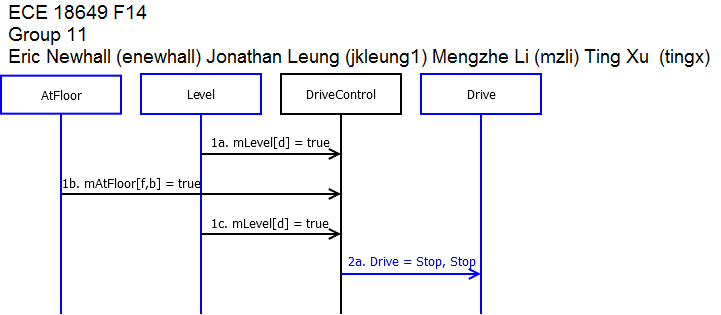
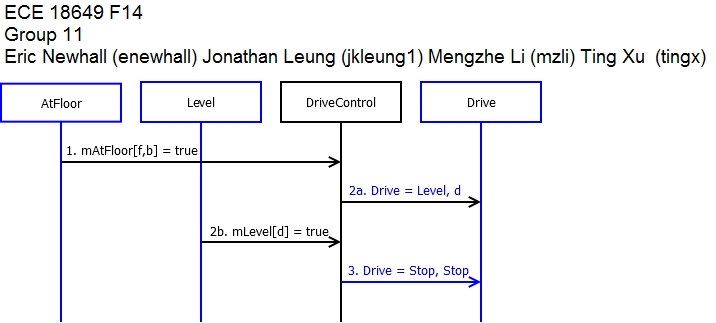
Fixed incorrect leveling process in scenario 6a.

Changed region(s): [[0.0, 0.0, 1.0, 1.0]]

diff --git a/portfolio/logs/issuelog.html b/portfolio/logs/issuelog.html
@@ -7,8 +7,12 @@
 <body>
 <h1 style="text-align: center;">18649 - Issue Log<br>
 </h1>
-<hr style="width: 100%; height: 2px;">18649 &lt;semester&gt;<br>
-Group x - Student names and andrewIds<br>
+<hr style="width: 100%; height: 2px;">18649 F14<br>
+Group 11 <br>
+Eric Newhall (enewhall)<br>
+Jonathan Leung (jkleung1) <br>
+Mengzhe Li (mzli) <br>
+Ting Xu  (tingx) <br>
 <hr style="width: 100%; height: 2px;">This table has an entry for each
 design issue during the semester.&nbsp; Add new entries to the bottom
 of the table (you may need to add new rows).&nbsp; Leave all the
@@ -61,19 +65,19 @@ to resolve the issue.&nbsp; This should be a specific list, such as
     <tr>
       <td style="vertical-align: top;">1<br>
       </td>
-      <td style="vertical-align: top;"><br>
+      <td style="vertical-align: top;">09/16/2014<br>
       </td>
-      <td style="vertical-align: top;"><br>
+      <td style="vertical-align: top;">09/16/2014<br>
       </td>
-      <td style="vertical-align: top;"><br>
+      <td style="vertical-align: top;">jkleung1<br>
       </td>
-      <td style="vertical-align: top;"><br>
+      <td style="vertical-align: top;">S6a<br>
       </td>
-      <td style="vertical-align: top;"><br>
+      <td style="vertical-align: top;">Unnecessary mLevel message being received, and drive is being set from Slow to Stop without going through Level.<br>
       </td>
-      <td style="vertical-align: top;"><br>
+      <td style="vertical-align: top;">Changed scenario and sequence diagram to reflect a correct leveling procedure.<br>
       </td>
-      <td style="vertical-align: top;"><br>
+      <td style="vertical-align: top;">S6a SD6a<br>
       </td>
     </tr>
     <tr>

diff --git a/portfolio/scen_sd/scen_sd.html b/portfolio/scen_sd/scen_sd.html
@@ -11,17 +11,13 @@
 <body link="blue" vlink="blue">
 <div class="Section1">
 <h1 align="center"> 18-649 Scenarios and Sequence Diagrams </h1>
-<div align="center">
-<hr size="2" width="100%" align="center"> </div>
-<p>18649 F14<br>
+<hr style="width: 100%; height: 2px;">18649 F14<br>
 Group 11 <br>
 Eric Newhall (enewhall)<br>
 Jonathan Leung (jkleung1) <br>
 Mengzhe Li (mzli) <br>
 Ting Xu  (tingx) <br>
-</p>
 <hr style="width: 100%; height: 2px;">
-<p> </p>
 <h2> Scenarios: </h2>
 <ul>
   <li><a href="#usecase1">1. Passenger Makes a Hall Call</a> </li>
@@ -375,6 +371,7 @@ suffice.</p>
 <h3> Scenario: </h3>
 <ol start="1" type="1">
   <li>Car arrives at floor y </li>
+  <li>Car levels itself</li>
   <li>Car stops moving </li>
 </ol>
 <h3> Post-Conditions: </h3>
@@ -385,7 +382,7 @@ suffice.</p>
 </ul>
 <h3> Sequence Diagram: </h3>
 <p> <a href="sd6a.png"><img src="sd6a.png" alt="6A" name="_x0000_i1027"
- style="border: 0px solid ; width: 721px; height: 315px;"></a> </p>
+ style="border: 0px solid ; width: 716px; height: 323px;"></a> </p>
 <p> &nbsp; </p>
 
 
